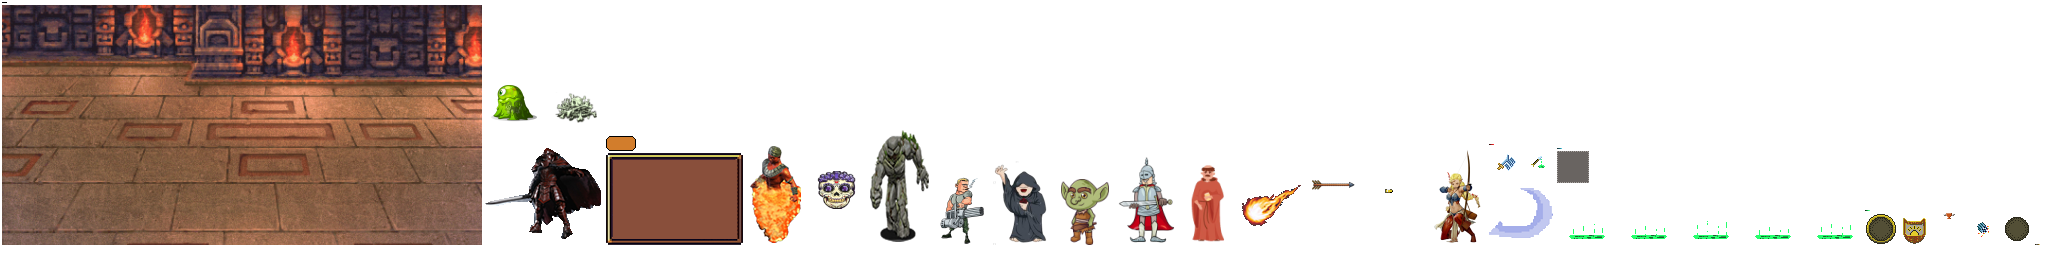
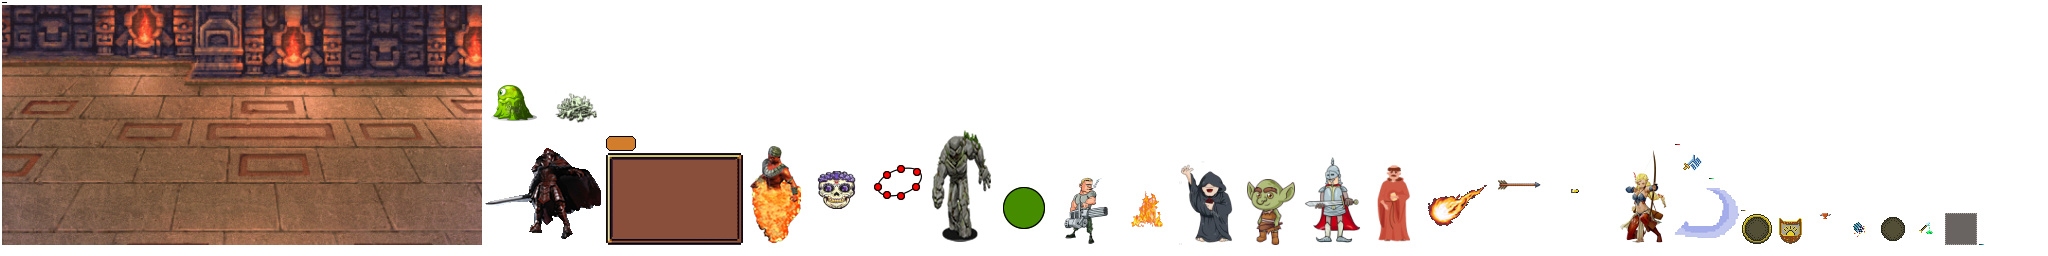
scorch and stun

Changed region(s): [[0.4062, 0.5312, 1.0, 0.9688], [0.8125, 0.625, 0.8438, 0.6562]]

diff --git a/android/battle/src/main/java/com/game7th/battle/SwipeBattle.kt b/android/battle/src/main/java/com/game7th/battle/SwipeBattle.kt
@@ -8,9 +8,7 @@ import com.game7th.battle.personage.*
 import com.game7th.battle.tilefield.TileField
 import com.game7th.battle.tilefield.TileFieldMerger
 import com.game7th.battle.tilefield.tile.*
-import com.game7th.battle.unit.BattleUnit
-import com.game7th.battle.unit.Team
-import com.game7th.battle.unit.UnitFactory
+import com.game7th.battle.unit.*
 import kotlinx.coroutines.channels.Channel
 import kotlinx.coroutines.newSingleThreadContext
 import kotlinx.coroutines.withContext
@@ -173,14 +171,24 @@ class SwipeBattle(val balance: SwipeBalance) {
         aliveUnits().forEach { unit ->
             processHeal(unit, unit.stats.regeneration.toFloat())
 
-            if (unit.stats.ailPoisonDuration > 0) {
-                unit.stats.ailPoisonDuration--
-                processAilmentDamage(unit, DamageVector(0, 0, unit.stats.ailPoisonDamage))
-                events.send(BattleEvent.ShowAilmentEffect(unit.id, "effect_poision"))
-                if (unit.stats.ailPoisonDuration == 0) {
-                    unit.stats.ailPoisonDamage = 0
+            unit.stats.ailments.forEach { ailment ->
+                when (ailment.ailmentType) {
+                    AilmentType.POISON -> {
+                        processAilmentDamage(unit, DamageVector(0, 0, ailment.value.toInt()))
+                        events.send(BattleEvent.ShowAilmentEffect(unit.id, "effect_poison"))
+                    }
+                    AilmentType.SCORCH -> {
+                        processAilmentDamage(unit, DamageVector(0, ailment.value.toInt(), 0))
+                        events.send(BattleEvent.ShowAilmentEffect(unit.id, "effect_scorch"))
+                    }
+                    AilmentType.STUN -> {
+                        events.send(BattleEvent.ShowAilmentEffect(unit.id, "effect_stun"))
+                    }
                 }
+                ailment.ticks--
             }
+
+            unit.stats.ailments = unit.stats.ailments.filter { it.ticks > 0 }.toMutableList()
         }
     }
 
@@ -224,9 +232,24 @@ class SwipeBattle(val balance: SwipeBalance) {
     }
 
     suspend fun applyPoison(target: BattleUnit, poisonTicks: Int, poisonDmg: Int) {
-        target.stats.ailPoisonDamage += poisonDmg
-        target.stats.ailPoisonDuration += poisonTicks
-        events.send(BattleEvent.ShowAilmentEffect(target.id, "effect_poision"))
+        val currentPoison = target.stats.ailments.firstOrNull { it.ailmentType == AilmentType.POISON }
+        if (currentPoison != null) {
+            currentPoison.value += poisonDmg
+            currentPoison.ticks += poisonTicks
+        } else {
+            target.stats.ailments.add(UnitAilment(AilmentType.POISON, poisonTicks, poisonDmg.toFloat()))
+        }
+        events.send(BattleEvent.ShowAilmentEffect(target.id, "effect_poison"))
+    }
+
+    suspend fun applyScorch(target: BattleUnit, ticks: Int, dmg: Int) {
+        target.stats.ailments.add(UnitAilment(AilmentType.SCORCH, ticks, dmg.toFloat()))
+        events.send(BattleEvent.ShowAilmentEffect(target.id, "effect_scorch"))
+    }
+
+    suspend fun applyStun(target: BattleUnit, ticks: Int) {
+        target.stats.ailments.add(UnitAilment(AilmentType.STUN, ticks, 0f))
+        events.send(BattleEvent.ShowAilmentEffect(target.id, "effect_stun"))
     }
 
     suspend fun notifyEvent(event: BattleEvent) {

diff --git a/android/battle/src/main/java/com/game7th/battle/unit/UnitFactory.kt b/android/battle/src/main/java/com/game7th/battle/unit/UnitFactory.kt
@@ -122,7 +122,7 @@ object UnitFactory {
                 val result = UnitStats(skin = "personage_earth_element", level = level, health = CappedStat(hp, hp))
                 result += ability {
                     ticker {
-                        ticksToTrigger = 3
+                        ticksToTrigger = 5
                         body = { battle, unit ->
                             val damage = balance.earth_element.damage.o * (exp(balance.earth_element.damage.k * unit.stats.level) + balance.earth_element.damage.f + balance.earth_element.damage.m * unit.stats.level)
                             if (damage > 0) {
@@ -131,7 +131,7 @@ object UnitFactory {
                                     battle.notifyAttack(unit, target)
                                     val result = battle.processDamage(target, unit, DamageVector(damage.toInt(), 0, 0))
                                     if (result.status != DamageProcessStatus.DAMAGE_EVADED) {
-                                        //stun?
+                                        battle.applyStun(target, battle.balance.earth_element.stun_duration.calculate())
                                     }
                                 }
                             }
@@ -169,7 +169,7 @@ object UnitFactory {
                 val result = UnitStats(skin = "personage_fire_element", level = level, health = CappedStat(hp, hp))
                 result += ability {
                     ticker {
-                        ticksToTrigger = 3
+                        ticksToTrigger = 5
                         body = { battle, unit ->
                             battle.notifyAoeProjectile("projectile_fireball", unit, -1)
                             val damage = balance.fire_element.damage.o * (exp(balance.fire_element.damage.k * unit.stats.level) + balance.fire_element.damage.f + balance.fire_element.damage.m * unit.stats.level)
@@ -178,7 +178,7 @@ object UnitFactory {
                                 battle.aliveEnemies(unit).forEach { enemy ->
                                     val result = battle.processDamage(enemy, unit, DamageVector(0, damage.toInt(), 0))
                                     if (result.status != DamageProcessStatus.DAMAGE_EVADED) {
-                                        //ignite?
+                                        battle.applyScorch(enemy, balance.fire_element.scorch_duration, (balance.fire_element.scorch_k * unit.stats.level * damage).toInt())
                                     }
                                 }
                             }

diff --git a/android/battle/src/main/java/com/game7th/battle/unit/UnitStats.kt b/android/battle/src/main/java/com/game7th/battle/unit/UnitStats.kt
@@ -40,12 +40,27 @@ data class BattleUnit(
                     magicDefense = stats.resist.value,
                     maxMagicDefense = stats.resist.maxValue,
                     tick = stats.tick,
-                    maxTick = stats.maxTick
+                    maxTick = stats.maxTick,
+                    isStunned = !isNotStunned()
             ),
             skin = stats.skin,
             id = id
     )
+
+    fun isNotStunned(): Boolean {
+        return stats.ailments.firstOrNull { it.ailmentType == AilmentType.STUN } == null
+    }
 }
+
+enum class AilmentType {
+    POISON, STUN, SCORCH
+}
+
+data class UnitAilment(
+        val ailmentType: AilmentType,
+        var ticks: Int,
+        var value: Float
+)
 
 /**
  * Generic unit information
@@ -68,8 +83,7 @@ data class UnitStats(
         var tick: Int = 0,
         var maxTick: Int = 0,
 
-        var ailPoisonDuration: Int = 0,
-        var ailPoisonDamage: Int = 0
+        var ailments: MutableList<UnitAilment> = mutableListOf()
 ) {
     val abilities = mutableListOf<UnitAbility>()
 

diff --git a/android/battle/src/main/java/com/game7th/battle/balance/SwipeBalance.kt b/android/battle/src/main/java/com/game7th/battle/balance/SwipeBalance.kt
@@ -1,5 +1,7 @@
 package com.game7th.battle.balance
 
+import kotlin.random.Random
+
 data class StatBalance(
         val baseHealth: Int,
         val healthPerBody: Int,
@@ -50,6 +52,13 @@ data class ExponentialDamageBalance(
         val o: Float
 )
 
+data class RangeBalance(
+        val min: Int,
+        val max: Int
+) {
+    fun calculate() = Random.nextInt(min, max + 1)
+}
+
 data class SlimeBalance(
     val hp: HpBalance,
     val damage: SquareDamageBalance
@@ -63,12 +72,15 @@ data class CitadelWarlockBalance(
 
 data class FireElementBalance(
         val damage: ExponentialDamageBalance,
-        val hp: HpBalance
+        val hp: HpBalance,
+        val scorch_k: Float,
+        val scorch_duration: Int
 )
 
 data class EarthElementBalance(
         val damage: ExponentialDamageBalance,
-        val hp: HpBalance
+        val hp: HpBalance,
+        val stun_duration: RangeBalance
 )
 
 data class BossBloodKnightBalance(

diff --git a/android/core/src/com/game7th/swipe/game/actors/PersonageActor.kt b/android/core/src/com/game7th/swipe/game/actors/PersonageActor.kt
@@ -24,6 +24,7 @@ class PersonageActor(
     val armorAmount: Label
     val resistAmount: Label
     val tickLabel: Label
+    val stunImage: Image
 
     val effects = Group()
 
@@ -112,10 +113,17 @@ class PersonageActor(
             y = 200f
             zIndex = 14
         }
+
         addActor(healthAmount)
         addActor(armorAmount)
         addActor(resistAmount)
         addActor(tickLabel)
+
+        stunImage = Image(context.atlas.findRegion("effect_stun")).apply {
+            isVisible = false
+            y = 60f
+        }
+        addActor(stunImage)
 
         addActor(effects)
     }
@@ -180,6 +188,7 @@ class PersonageActor(
         }
 
         tickLabel.setText(getTickText())
+        stunImage.isVisible = viewModel.stats.isStunned
     }
 
     fun showEvadeAnimation() {

diff --git a/android/battle/src/main/java/com/game7th/battle/ability/tickers.kt b/android/battle/src/main/java/com/game7th/battle/ability/tickers.kt
@@ -3,6 +3,7 @@ package com.game7th.battle.ability
 import com.game7th.battle.SwipeBattle
 import com.game7th.battle.event.BattleEvent
 import com.game7th.battle.internal_event.InternalBattleEvent
+import com.game7th.battle.unit.AilmentType
 import com.game7th.battle.unit.BattleUnit
 import kotlin.math.min
 import kotlin.random.Random
@@ -18,7 +19,7 @@ class TickerTrigger : AbilityTrigger {
             is InternalBattleEvent.TickEvent -> {
                 if (!event.preventTickers) {
                     tick++
-                    if (tick == ticksToTrigger) {
+                    if (tick >= ticksToTrigger && unit.isNotStunned()) {
                         tick = 0
                         body(event.battle, unit)
                     }

diff --git a/android/battle/src/main/java/com/game7th/battle/ability/consumers.kt b/android/battle/src/main/java/com/game7th/battle/ability/consumers.kt
@@ -14,7 +14,7 @@ class ConsumeOnUseTrigger : AbilityTrigger {
     override suspend fun process(event: InternalBattleEvent, unit: BattleUnit) {
         when (event) {
             is InternalBattleEvent.AbilityUseEvent -> {
-                if (event.tile.type == tileType && event.tile.tier1()) {
+                if (event.tile.type == tileType && event.tile.tier1() && unit.isNotStunned()) {
                     //We are using ourselves
                     event.battle.tileField.removeById(event.tile.id)
                     event.battle.notifyTileRemoved(event.tile.id)

diff --git a/android/core/src/com/game7th/swipe/game/actors/BattleView.kt b/android/core/src/com/game7th/swipe/game/actors/BattleView.kt
@@ -138,7 +138,7 @@ class BattleView(private val gameContext: GdxGameContext) : Group() {
                 }
             }
             is BattleEvent.ShowAilmentEffect -> {
-                val effectImage = Image(gameContext.atlas.findRegion(event.effectSkin, 0))
+                val effectImage = Image(gameContext.atlas.findRegion(event.effectSkin))
                 val targetActor = personages.findActor<PersonageActor>("${event.target}")
                 targetActor?.let { targetActor ->
                     effectImage.apply {

diff --git a/android/battle/src/main/java/com/game7th/battle/personage/PersonageStats.kt b/android/battle/src/main/java/com/game7th/battle/personage/PersonageStats.kt
@@ -19,5 +19,7 @@ data class PersonageStats(
         var level: Int,
 
         val tick: Int,
-        val maxTick: Int
+        val maxTick: Int,
+
+        val isStunned: Boolean
 )
